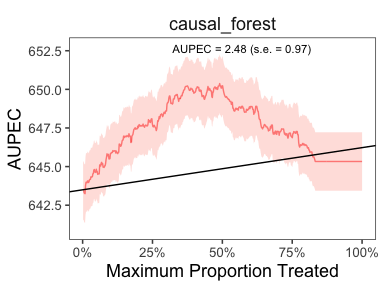
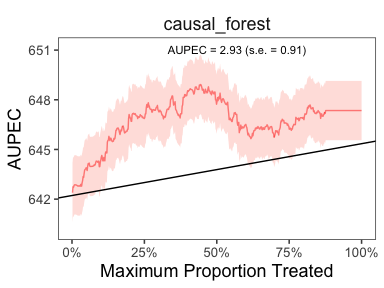
up

diff --git a/README.md b/README.md
@@ -149,30 +149,58 @@ design are given in [Imai and Li
 summary(est)
 #> ── PAPE ────────────────────────────────────────────────────────────────────────
 #>   estimate std.deviation     algorithm statistic p.value
-#> 1    -0.49          0.95 causal_forest     -0.51    0.61
+#> 1      2.4          0.89 causal_forest       2.7  0.0072
 #> 
 #> ── PAPEp ───────────────────────────────────────────────────────────────────────
 #>   estimate std.deviation     algorithm statistic p.value
-#> 1      1.8           1.1 causal_forest       1.6     0.1
+#> 1      4.1           1.3 causal_forest       3.1   0.002
 #> 
 #> ── PAPDp ───────────────────────────────────────────────────────────────────────
 #> data frame with 0 columns and 0 rows
 #> 
 #> ── AUPEC ───────────────────────────────────────────────────────────────────────
 #>   estimate std.deviation     algorithm statistic p.value
-#> 1      1.2          0.84 causal_forest       1.5    0.15
+#> 1      2.9          0.91 causal_forest       3.2  0.0014
 #> 
 #> ── GATE ────────────────────────────────────────────────────────────────────────
 #>   estimate std.deviation     algorithm group statistic p.value upper lower
-#> 1    120.3           109 causal_forest     1     1.108    0.27  -181   177
-#> 2   -110.1           108 causal_forest     2    -1.023    0.31  -179   175
-#> 3     -2.7           108 causal_forest     3    -0.025    0.98  -179   175
-#> 4   -111.7           107 causal_forest     4    -1.047    0.29  -177   174
-#> 5     94.7           108 causal_forest     5     0.876    0.38  -180   176
+#> 1       47           108 causal_forest     1      0.43    0.66  -175   182
+#> 2       12           108 causal_forest     2      0.11    0.91  -174   181
+#> 3      -24           109 causal_forest     3     -0.22    0.83  -176   182
+#> 4      -64           109 causal_forest     4     -0.59    0.56  -175   182
+#> 5       44           108 causal_forest     5      0.40    0.69  -175   181
 
-# summarize estimates with model trained using caret
+# similarly for caret
 # summary(est_caret)
 ```
+
+We can extract estimates from the `est` object. The following code shows
+how to extract the GATE estimates for the writing score with `rlasso`
+and `lasso` algorithms.
+
+``` r
+# plot GATE estimates
+summary(est)$GATE %>%
+  mutate(conf.low = estimate - 1.96 * std.deviation,
+         conf.high = estimate + 1.96 * std.deviation,
+         group = as_factor(group)) %>%
+  ggplot(., aes(
+    x = group, y = estimate,
+    ymin = conf.low , ymax = conf.high, color = algorithm)) +
+  ggdist::geom_pointinterval(
+    width=0.5,    
+    position=position_dodge(0.5),
+    interval_size_range = c(0.8, 1.5),
+    fatten_point = 2.5) +
+  theme_bw() +    
+  theme(panel.grid element_blank(),
+        panel.background = element_blank()) +
+  labs(x = "Group", y = "GATE estimate") +
+  geom_hline(yintercept = 0, linetype = "dashed", color = "#4e4e4e") +
+  scale_color_manual(values = c("#E69F00", "#56B4E9", "#009E73", "#076f00", "#0072B2")) 
+```
+
+<img src="man/figures/gate.png" width="100%" />
 
 We plot the estimated Area Under the Prescriptive Effect Curve for the
 writing score across a range of budget constraints for causal forest.
@@ -296,56 +324,56 @@ est_cv <- evaluate_itr(fit_cv)
 summary(est_cv)
 #> ── PAPE ────────────────────────────────────────────────────────────────────────
 #>   estimate std.deviation     algorithm statistic p.value
-#> 1     0.36          0.93 causal_forest      0.39   0.697
-#> 2    -0.20          0.40         bartc     -0.51   0.613
-#> 3    -0.29          0.22         lasso     -1.29   0.197
-#> 4     1.35          0.74            rf      1.83   0.067
+#> 1    0.954          0.82 causal_forest      1.17    0.24
+#> 2   -0.076          0.46         bartc     -0.16    0.87
+#> 3    0.173          1.07         lasso      0.16    0.87
+#> 4    1.266          0.95            rf      1.33    0.18
 #> 
 #> ── PAPEp ───────────────────────────────────────────────────────────────────────
 #>   estimate std.deviation     algorithm statistic p.value
-#> 1     2.38          0.66 causal_forest       3.6 0.00029
-#> 2     1.86          0.63         bartc       2.9 0.00326
-#> 3     0.87          1.08         lasso       0.8 0.42083
-#> 4     1.96          1.12            rf       1.8 0.07940
+#> 1     2.55          0.65 causal_forest      3.91 9.2e-05
+#> 2     1.38          0.76         bartc      1.81 7.0e-02
+#> 3    -0.21          0.63         lasso     -0.33 7.4e-01
+#> 4     1.69          1.11            rf      1.52 1.3e-01
 #> 
 #> ── PAPDp ───────────────────────────────────────────────────────────────────────
 #>   estimate std.deviation             algorithm statistic p.value
-#> 1     0.51          0.68 causal_forest x bartc      0.76    0.45
-#> 2     1.51          1.29 causal_forest x lasso      1.17    0.24
-#> 3     0.41          0.99    causal_forest x rf      0.42    0.68
-#> 4     0.99          0.79         bartc x lasso      1.25    0.21
-#> 5    -0.10          0.79            bartc x rf     -0.13    0.90
-#> 6    -1.09          1.35            lasso x rf     -0.81    0.42
+#> 1     1.18          0.95 causal_forest x bartc       1.2 0.21608
+#> 2     2.76          0.80 causal_forest x lasso       3.5 0.00054
+#> 3     0.87          0.71    causal_forest x rf       1.2 0.22292
+#> 4     1.58          1.06         bartc x lasso       1.5 0.13651
+#> 5    -0.31          1.01            bartc x rf      -0.3 0.76073
+#> 6    -1.89          0.72            lasso x rf      -2.6 0.00892
 #> 
 #> ── AUPEC ───────────────────────────────────────────────────────────────────────
 #>   estimate std.deviation     algorithm statistic p.value
-#> 1     1.24           1.5 causal_forest      0.83    0.41
-#> 2     0.77           1.4         bartc      0.54    0.59
-#> 3     0.35           1.4         lasso      0.24    0.81
-#> 4     1.36           1.5            rf      0.90    0.37
+#> 1     1.43           1.5 causal_forest      0.92    0.36
+#> 2     0.76           1.4         bartc      0.55    0.58
+#> 3     0.18           1.4         lasso      0.13    0.90
+#> 4     1.37           1.6            rf      0.88    0.38
 #> 
 #> ── GATE ────────────────────────────────────────────────────────────────────────
 #>    estimate std.deviation     algorithm group statistic p.value upper lower
-#> 1    -124.7            59 causal_forest     1    -2.122   0.034   -93   100
-#> 2      94.3            60 causal_forest     2     1.582   0.114   -94   102
-#> 3      13.1            59 causal_forest     3     0.222   0.825   -93   101
-#> 4       3.0            59 causal_forest     4     0.051   0.960   -93   101
-#> 5      32.5            98 causal_forest     5     0.332   0.740  -157   165
-#> 6     -14.7            82         bartc     1    -0.180   0.858  -131   138
-#> 7    -137.3            87         bartc     2    -1.587   0.113  -139   146
-#> 8      54.1            79         bartc     3     0.687   0.492  -126   133
-#> 9      85.3            74         bartc     4     1.156   0.248  -118   125
-#> 10     30.7            79         bartc     5     0.391   0.696  -126   133
-#> 11     71.6            59         lasso     1     1.210   0.226   -94   101
-#> 12     -4.1           101         lasso     2    -0.041   0.968  -162   169
-#> 13    -95.5            98         lasso     3    -0.973   0.331  -158   165
-#> 14     27.2            85         lasso     4     0.319   0.750  -137   144
-#> 15     19.0            62         lasso     5     0.303   0.762   -99   106
-#> 16      9.8            59            rf     1     0.168   0.867   -93   100
-#> 17    -20.1            59            rf     2    -0.338   0.735   -94   101
-#> 18    -61.4            59            rf     3    -1.046   0.296   -93   100
-#> 19     64.9            59            rf     4     1.101   0.271   -93   101
-#> 20     25.0            60            rf     5     0.418   0.676   -95   102
+#> 1    -118.1            59 causal_forest     1    -2.013   0.044   -93   100
+#> 2      27.0            59 causal_forest     2     0.454   0.650   -94   101
+#> 3      60.9            59 causal_forest     3     1.034   0.301   -93   101
+#> 4       7.6            59 causal_forest     4     0.128   0.898   -94   101
+#> 5      40.9            99 causal_forest     5     0.411   0.681  -160   167
+#> 6      -7.8            74         bartc     1    -0.105   0.916  -118   125
+#> 7    -107.9            59         bartc     2    -1.823   0.068   -94   101
+#> 8      62.8            94         bartc     3     0.668   0.504  -151   158
+#> 9       9.4            59         bartc     4     0.159   0.874   -94   101
+#> 10     61.7            99         bartc     5     0.625   0.532  -159   166
+#> 11    -14.4            94         lasso     1    -0.154   0.878  -150   158
+#> 12    -94.5            90         lasso     2    -1.051   0.293  -144   152
+#> 13     87.9            99         lasso     3     0.886   0.376  -160   167
+#> 14     12.6            59         lasso     4     0.214   0.830   -93   100
+#> 15     26.6            59         lasso     5     0.451   0.652   -93   101
+#> 16    -37.4            59            rf     1    -0.638   0.523   -93   100
+#> 17     10.6            59            rf     2     0.180   0.857   -94   101
+#> 18    -17.6            59            rf     3    -0.299   0.765   -93   100
+#> 19     66.5            86            rf     4     0.770   0.441  -139   146
+#> 20     -3.9            60            rf     5    -0.066   0.948   -94   102
 ```
 
 We plot the estimated Area Under the Prescriptive Effect Curve for the
